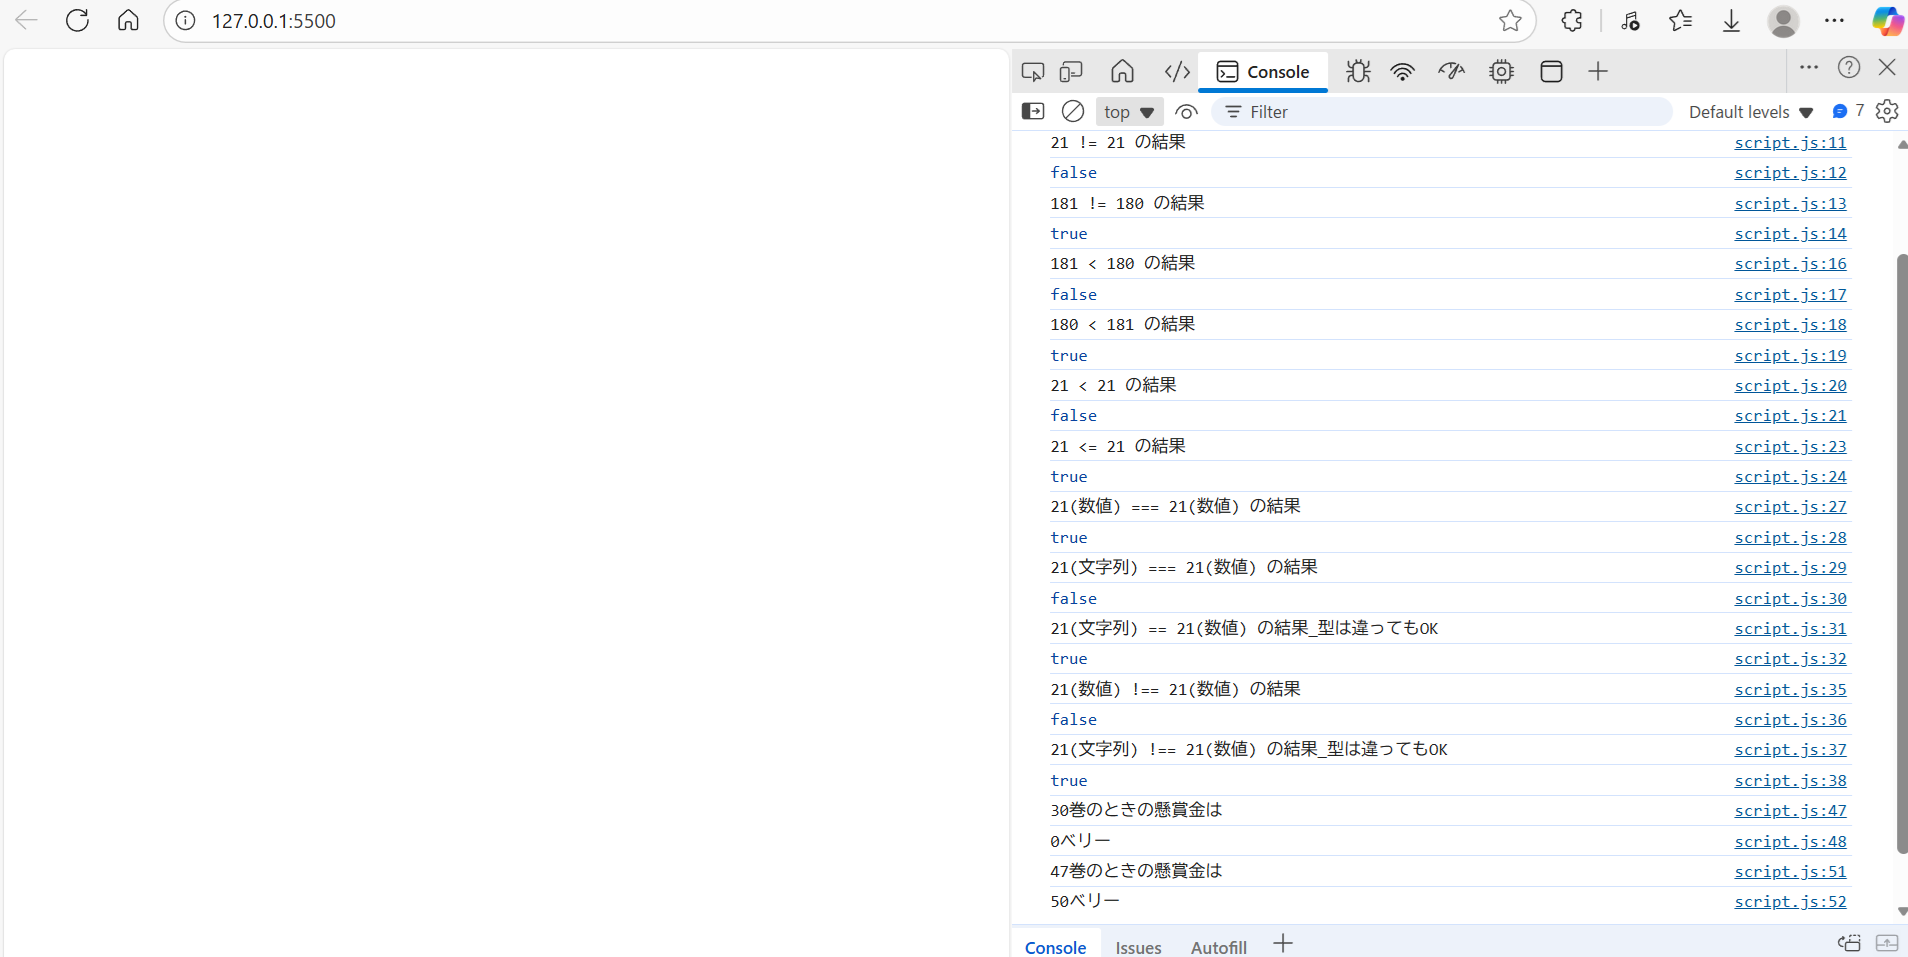
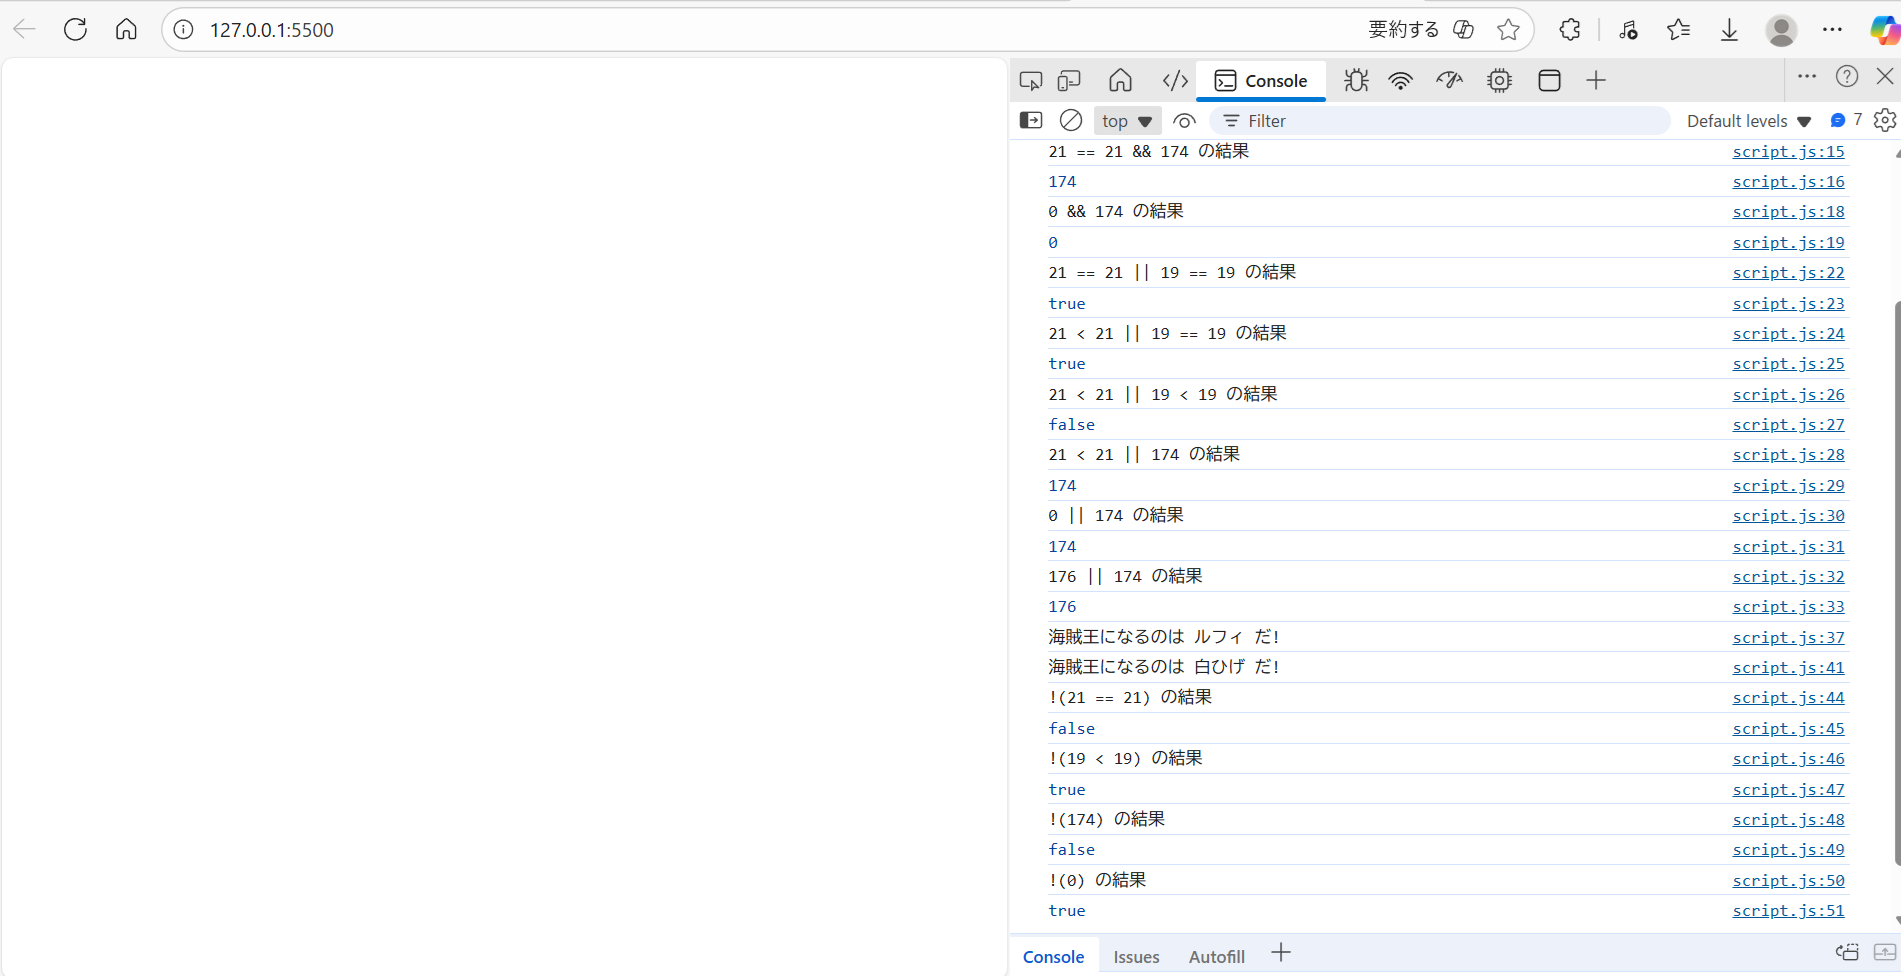
javascript エンジニアの休日10：2025/11/09
JavaScript  論理演算子(プログラミング入門講座)

Changed region(s): [[0.5276, 0.0, 1.0, 1.0], [0.031, 0.0, 0.1862, 0.0606]]

diff --git a/script.js b/script.js
@@ -1,52 +1,51 @@
-//比較演算子
+//論理演算子(&&, ||, !)
+// && 左側がtrueなら  右側を返す
+// && 左側がfalseなら 左側を返す
+let zoro =  { age: 21, height: 181};
+let sanji = { age: 21, height: 180};
+let luffy = { age: 19, height: 174};
+let usopp = { age: 19, height: 176};
 
-let zoro  = { age:21, height: 181 };
-let sanji = { age:21, height: 180 };
-// ==:値が等しいかどうか
-console.log("21 == 21 の結果");
-console.log( zoro.age == sanji.age );
-console.log("181 == 180 の結果");
-console.log( zoro.height == sanji.height );
-// ==:値が等しくないかどうか
-console.log("21 != 21 の結果");
-console.log( zoro.age != sanji.age );
-console.log("181 != 180 の結果");
-console.log( zoro.height != sanji.height );
-// < 左辺が右辺より小さいか
-console.log("181 < 180 の結果");
-console.log( zoro.height < sanji.height );
-console.log("180 < 181 の結果");
-console.log( sanji.height < zoro.height );
-console.log("21 < 21 の結果");
-console.log( zoro.age < sanji.age );
-// < 左辺が右辺以下
-console.log("21 <= 21 の結果");
-console.log( zoro.age <= sanji.age );
+console.log("21 == 21 && 19 == 19 の結果");
+console.log(zoro.age == sanji.age && luffy.age == usopp.age);
+console.log("21 == 21 && 19 < 19 の結果");
+console.log(zoro.age == sanji.age && luffy.age < usopp.age);
+console.log("21 < 21 && 19 == 19 の結果");
+console.log(zoro.age < sanji.age && luffy.age == usopp.age);
+console.log("21 == 21 && 174 の結果");
+console.log(zoro.age == sanji.age && luffy.height);
+// false:0, null, undefined, NaN, 空文字etc
+console.log("0 && 174 の結果");
+console.log(0 && luffy.height);
+// || 左側がtrueなら  左側を返す
+// || 左側がfalseなら 右側を返す
+console.log("21 == 21 || 19 == 19 の結果");
+console.log(zoro.age == sanji.age || luffy.age == usopp.age);
+console.log("21 < 21 || 19 == 19 の結果");
+console.log(zoro.age < sanji.age || luffy.age == usopp.age);
+console.log("21 < 21 || 19 < 19 の結果");
+console.log(zoro.age < sanji.age || luffy.age < usopp.age);
+console.log("21 < 21 || 174 の結果");
+console.log(zoro.age < sanji.age || luffy.height);
+console.log("0 || 174 の結果");
+console.log(0 || luffy.height);
+console.log("176 || 174 の結果");
+console.log(usopp.height || luffy.height);
 
-// ===:値が等しくて、データの方も等しい
-console.log("21(数値) === 21(数値) の結果");
-console.log( zoro.age === sanji.age );
-console.log("21(文字列) === 21(数値) の結果");
-console.log( String(zoro.age) === sanji.age );
-console.log("21(文字列) == 21(数値) の結果_型は違ってもOK");
-console.log( String(zoro.age) == sanji.age );
-// == は内部変換してデータの型が違っても比較する
-// !== 値が等しくない または データの型が等しくない
-console.log("21(数値) !== 21(数値) の結果");
-console.log( zoro.age !== sanji.age );
-console.log("21(文字列) !== 21(数値) の結果_型は違ってもOK");
-console.log( String(zoro.age) !== sanji.age );
+let pirate_king = "";
+pirate_king = pirate_king || "ルフィ";
+console.log(`海賊王になるのは ${pirate_king} だ!`);
 
-// ?: 条件演算子
-//条件によって値を切り替えたいときに利用
-// (条件式) ? 値1 : 値2
-//条件式がtrueなら値1、falseなら値2
-let volume = 30;
-let chopper_bounty;
-chopper_bounty = (volume <=44) ? 0:50
-console.log(`${volume}巻のときの懸賞金は`)
-console.log(chopper_bounty+"ベリー");
-volume = 47;
-chopper_bounty = (volume <=44) ? 0:50
-console.log(`${volume}巻のときの懸賞金は`)
-console.log(chopper_bounty+"ベリー");
+pirate_king = "白ひげ";
+pirate_king = pirate_king || "ルフィ";
+console.log(`海賊王になるのは ${pirate_king} だ!`);
+
+//!式がfalseの場合はtrue、trueの場合はfalse
+console.log("!(21 == 21) の結果");
+console.log(!(zoro.age == sanji.age));
+console.log("!(19 < 19) の結果");
+console.log(!(zoro.age < sanji.age));
+console.log("!(174) の結果");
+console.log(!(luffy.height));
+console.log("!(0) の結果");
+console.log(!(0));
